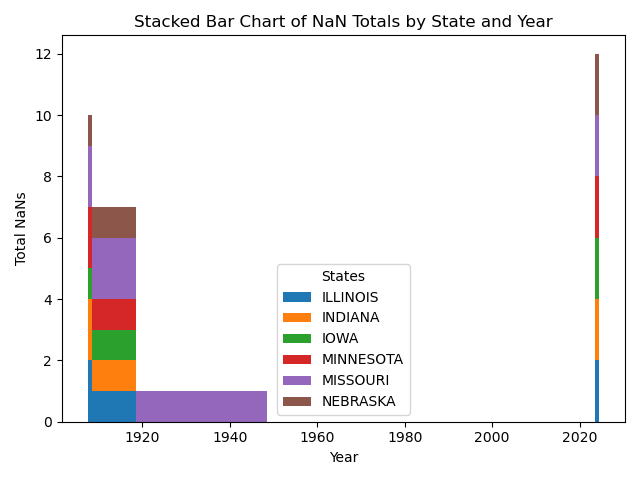
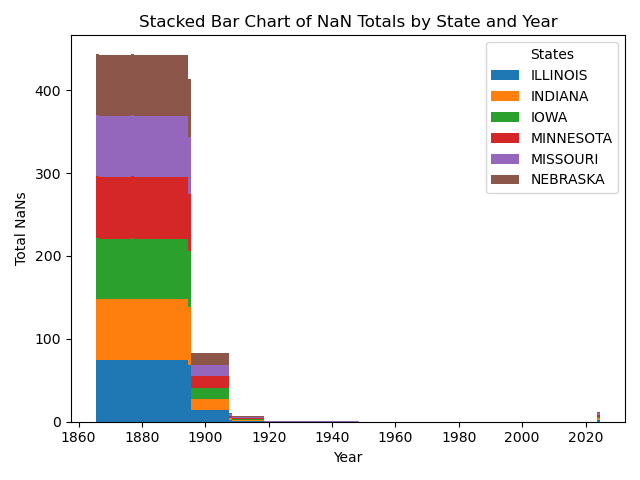
code comments to

diff --git a/src/cleaning.py b/src/cleaning.py
@@ -28,23 +28,20 @@ plt.savefig(
 )
 plt.show()
 
-df_1908_2024 = df[df['year'] >= 1908].copy()
-
-df_missing = df_1908_2024.set_index(['year', 'state_name']).isna()
+df_missing = df_1866_2024.set_index(['year', 'state_name']).isna()
 df_missing.replace(to_replace=True, value=1, inplace=True)
 df_missing.replace(to_replace=False, value=0, inplace=True)
-df_temp = df_missing.reset_index()
+df_missing.reset_index(inplace=True)
 
-df_nan_grouped = df_temp.groupby(['year', 'state_name']).agg('sum').reset_index()
-df_nan_grouped['nan_total'] = df_nan_grouped.iloc[:,2:].sum(axis=1)
+df_missing['nan_total'] = df_missing.iloc[:,2:].sum(axis=1)
 
-states = list(df_nan_grouped['state_name'].unique())
+states = list(df_missing['state_name'].unique())
 bottom = 0
 fig, ax = plt.subplots()
 
 for i, state in enumerate(states):
 
-    df_temp = df_nan_grouped[df_nan_grouped['state_name'] == state]
+    df_temp = df_missing[df_missing['state_name'] == state]
     years = df_temp['year'].values
     
     ax.bar(
@@ -66,7 +63,7 @@ plt.tight_layout()
 plt.savefig('results/cleaning/stacked_bar.png')
 plt.show()
 
-df_1919_2023 = df_1908_2024[(df_1908_2024['year'] >= 1919) & (df_1908_2024['year'] <= 2023)]
+df_1919_2023 = df_1866_2024[(df_1866_2024['year'] >= 1919) & (df_1866_2024['year'] <= 2023)]
 
 for year in range(1919, 1949):
     avg = df_1919_2023[df_1919_2023['year'] == year]['marketing_year'].mean()

diff --git a/doc/CHANGELOG.md b/doc/CHANGELOG.md
@@ -49,7 +49,12 @@
 - **Description:** Used a different algorithm to fetch all historical weather in `acquisition.py` to patch a bug that made all of `state_name` `ILLINOIS`.
 - **Additional Information:** Added some other work (`cleaning.ipynb`) that will elaborate upon in a future push.
 
-## [2025-01-14] - Benjamin Leidig
+## [2025-01-15] - Benjamin Leidig
 ### cleaned dataset
 - **Description:** Created `cleaning.ipynb` and `cleaning.py` that explore dataset nullity and clean the data of interest. Timeframe was readjusted and code comments will be added later.
 - **Additional Information:** Saved cleaning visualizations to `results/cleaning`.
+
+## [2025-01-15] - Benjamin Leidig
+### code comments to `cleaning.ipynb`
+- **Description:** Added code comments to `cleaning.ipynb`.
+- **Additional Information:** Shortened and improved some code in `cleaning.ipynb` and `cleaning.py`. Also, fixed the date of the previous change description in the `CHANGELOG.md`.
